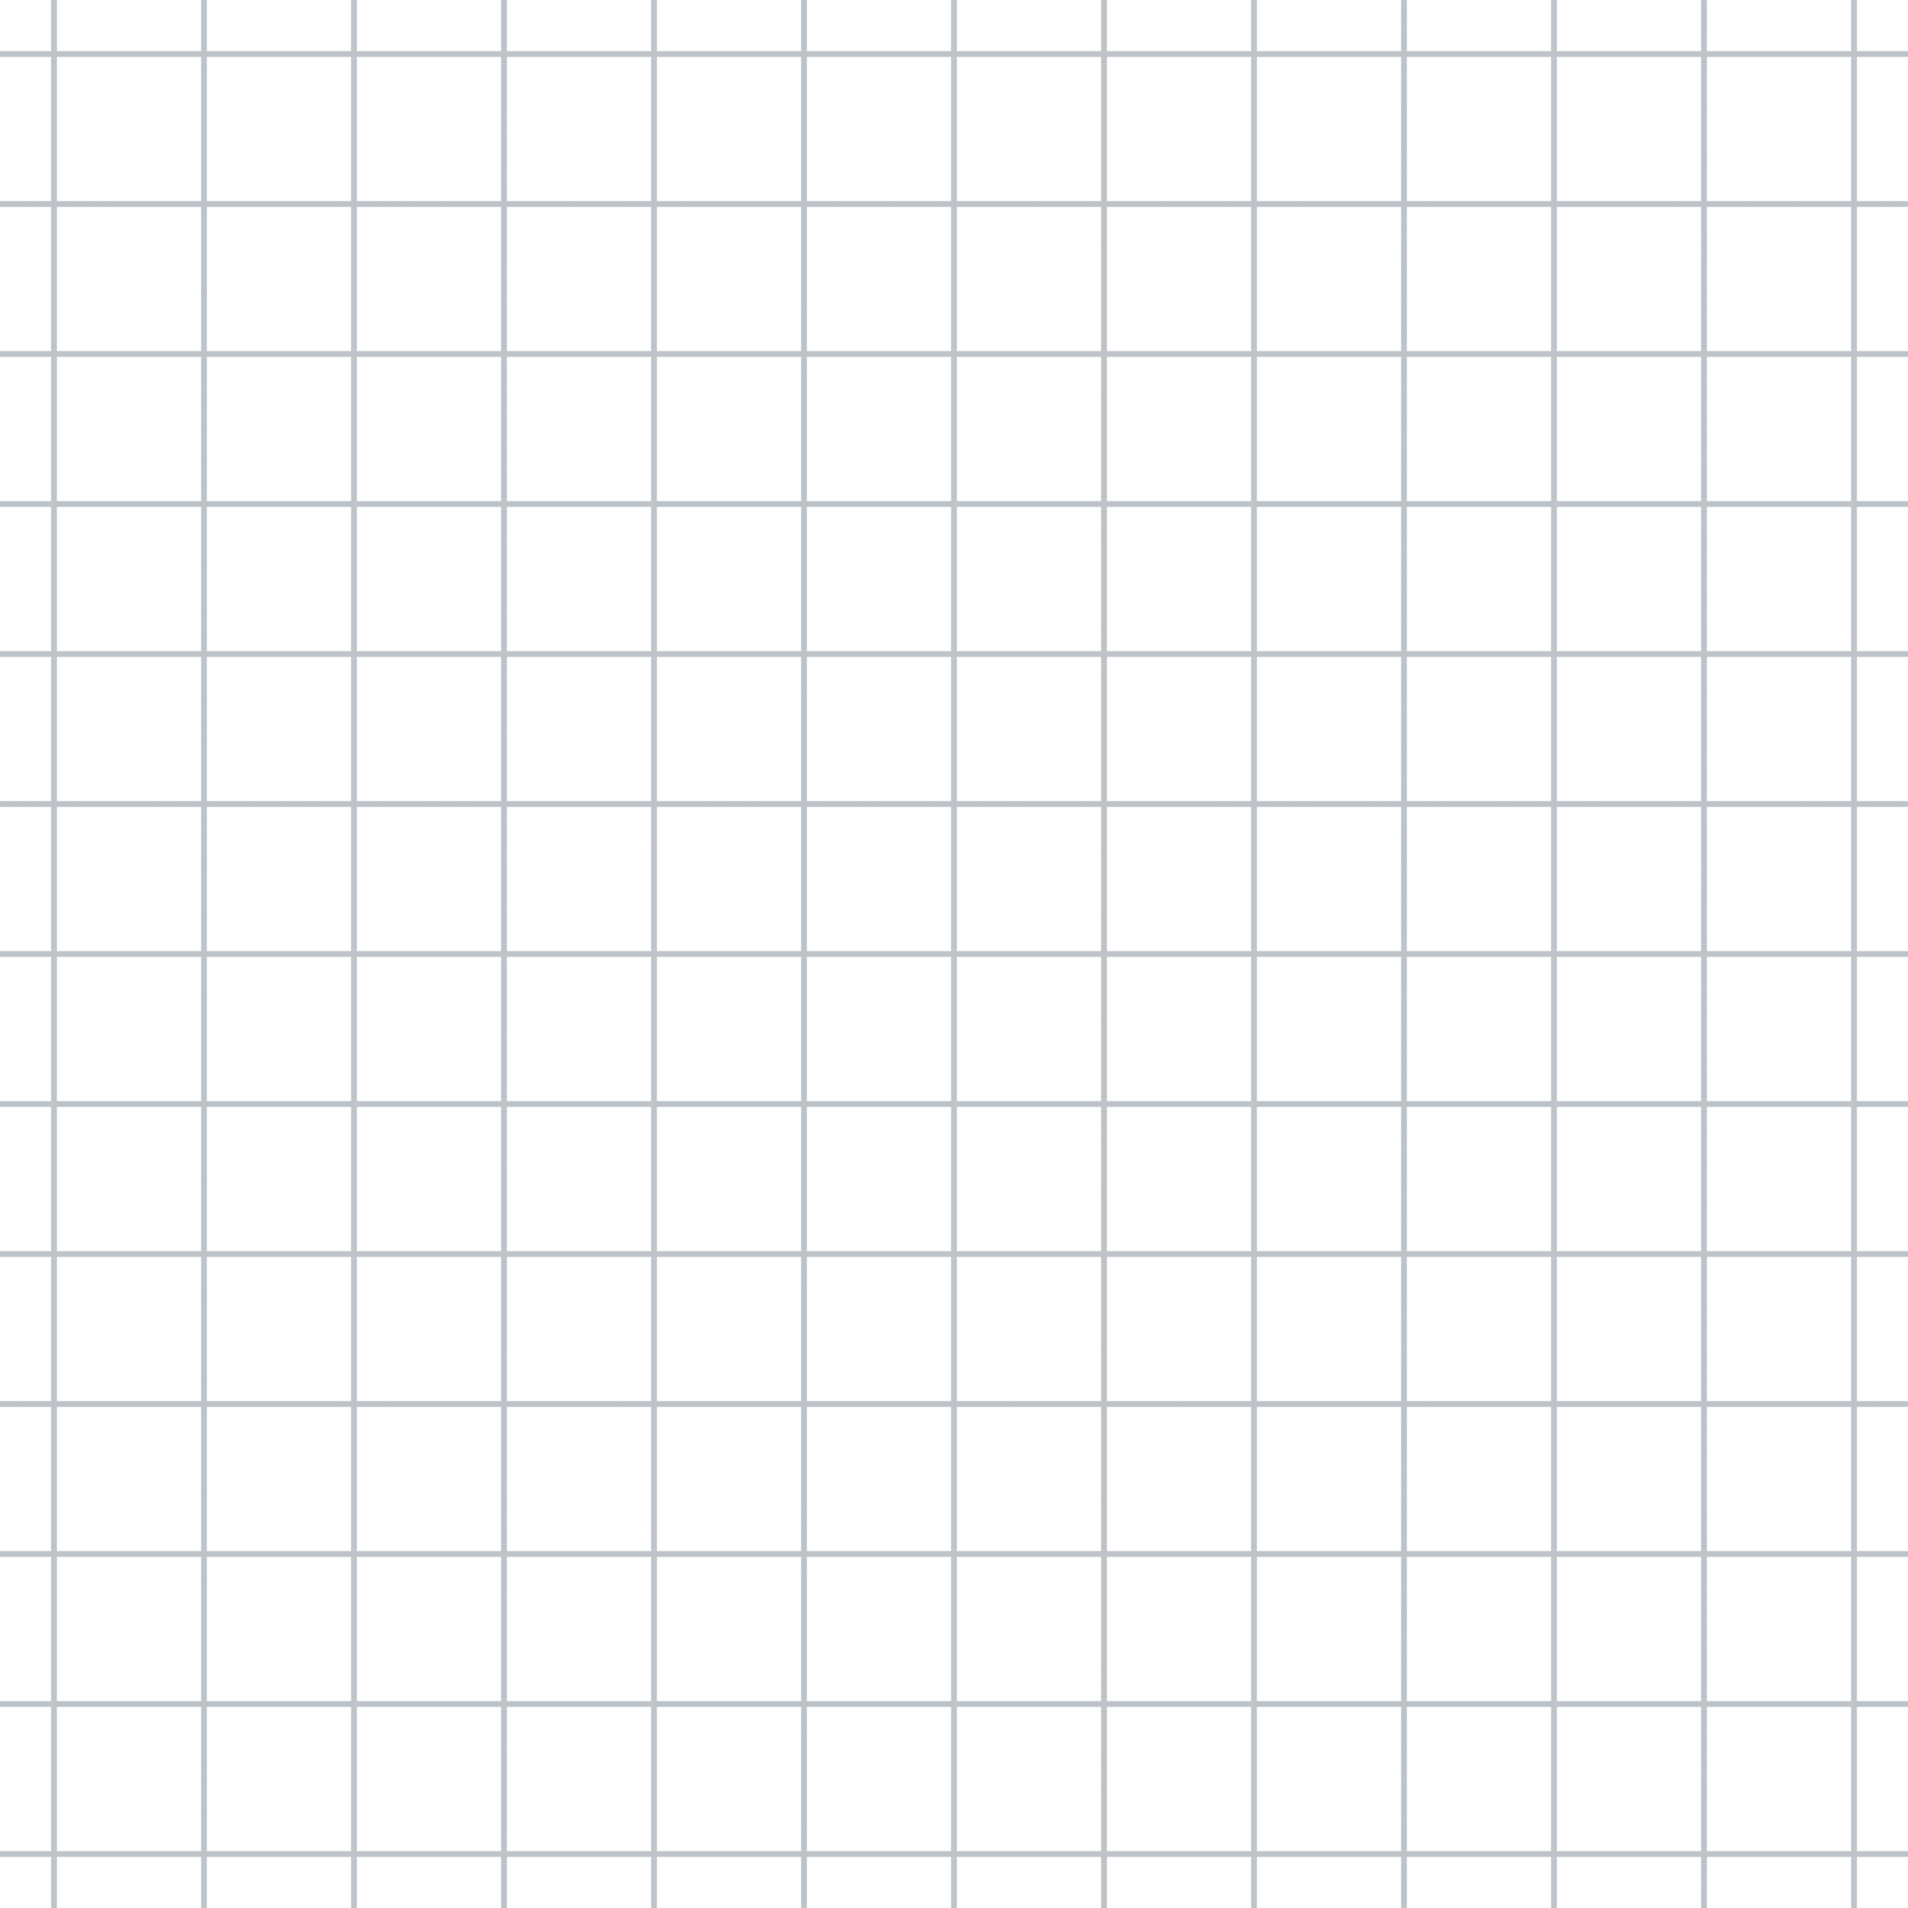
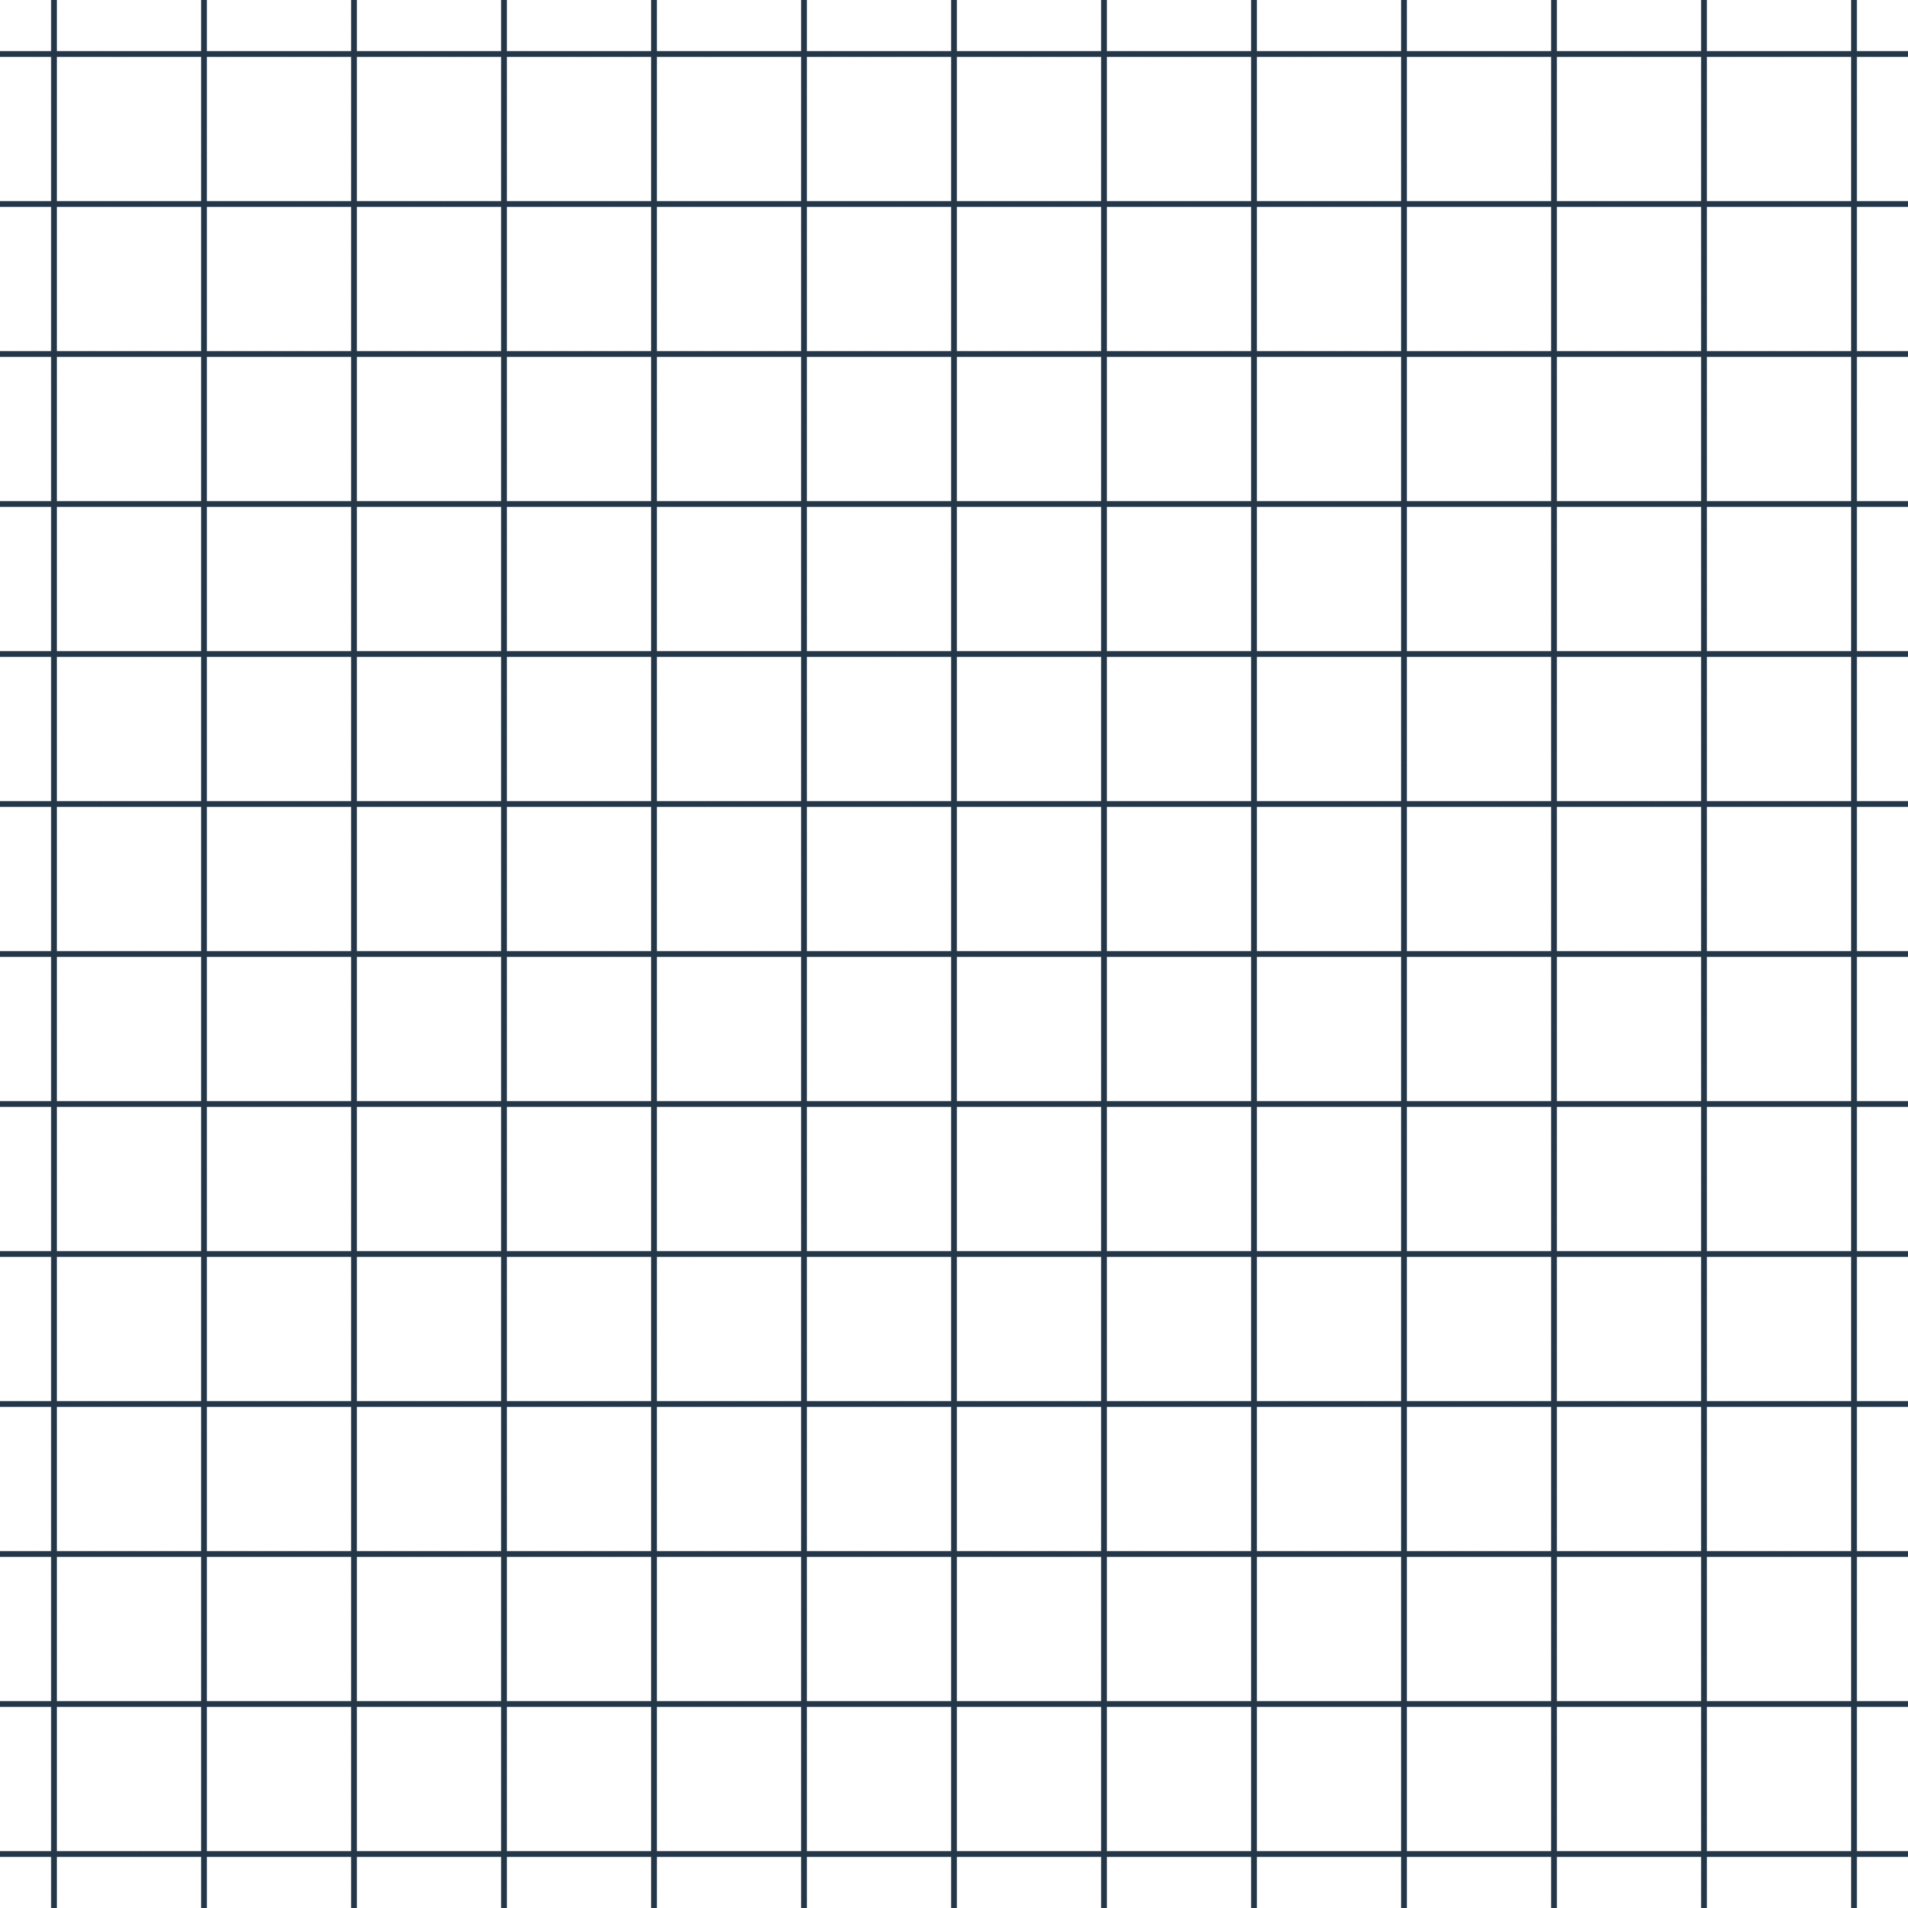
usibility updates

Changed region(s): [[0.0, 0.0, 1.0, 1.0]]

diff --git a/script.js b/script.js
@@ -8,7 +8,8 @@ const gameState = {
     constellationUnlocked: false,
     gridUnlocked: false,
     hitRadius: 2,  // Percentage radius for valid clicks (2% of map size)
-    collectedOrnaments: []
+    collectedOrnaments: [],
+    gridSpotlightRadius: 60
 };
 
 // Clue data - customize these for your treasure hunt
@@ -58,6 +59,7 @@ document.addEventListener('DOMContentLoaded', () => {
     initTabs();
     initMapClicks();
     initRotation();
+    initGridSpotlight();
     startGame();
 });
 
@@ -242,6 +244,41 @@ function initRotation() {
         if (mapOverlay) {
             mapOverlay.classList.remove('rotating');
         }
+    });
+}
+
+function initGridSpotlight() {
+    const mapContainer = document.getElementById('map-container');
+    const radiusSlider = document.getElementById('grid-radius-slider');
+    const radiusDisplay = document.getElementById('grid-radius-value');
+    
+    // Handle radius slider if it exists
+    if (radiusSlider) {
+        radiusSlider.addEventListener('input', () => {
+            gameState.gridSpotlightRadius = parseInt(radiusSlider.value);
+            if (radiusDisplay) {
+                radiusDisplay.textContent = gameState.gridSpotlightRadius;
+            }
+        });
+    }
+    
+    mapContainer.addEventListener('mousemove', (e) => {
+        const rect = mapContainer.getBoundingClientRect();
+        const x = ((e.clientX - rect.left) / rect.width) * 100;
+        const y = ((e.clientY - rect.top) / rect.height) * 100;
+        
+        const radius = gameState.gridSpotlightRadius;
+        
+        // Update mask with adjustable radius
+        const maskGradient = `radial-gradient(
+            circle at ${x}% ${y}%,
+            rgba(0, 0, 0, 1) 0%,
+            rgba(0, 0, 0, 0.8) ${radius * 0.66}px,
+            rgba(0, 0, 0, 0.5) ${radius * 1.33}px,
+            rgba(0, 0, 0, 0.15) ${radius * 2}px
+        )`;
+        
+        mapContainer.style.setProperty('--mask-gradient', maskGradient);
     });
 }
 

diff --git a/styles.css b/styles.css
@@ -218,11 +218,15 @@ grid-template-columns: 1fr 400px;
     background-size: cover;
     pointer-events: none;
     z-index: 1;
-    opacity:0;
+    opacity: 0;
     transition: opacity 0.3s ease;
+    mix-blend-mode: multiply;
 }
+
 .map-container.grid::after {
-    opacity:1;
+    opacity: 0.5;
+    mask-image: var(--mask-gradient);
+    -webkit-mask-image: var(--mask-gradient);
 }
 
 .constellation-image {
